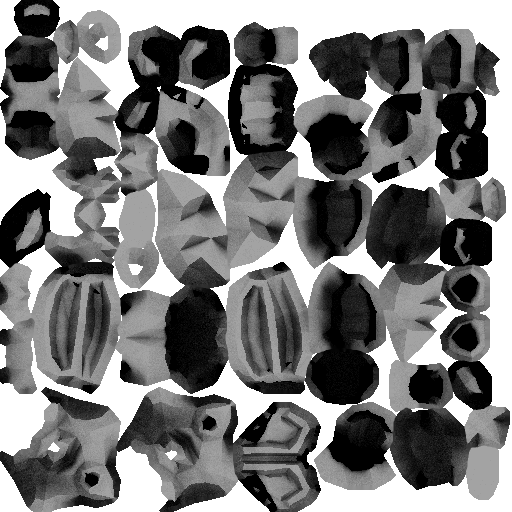
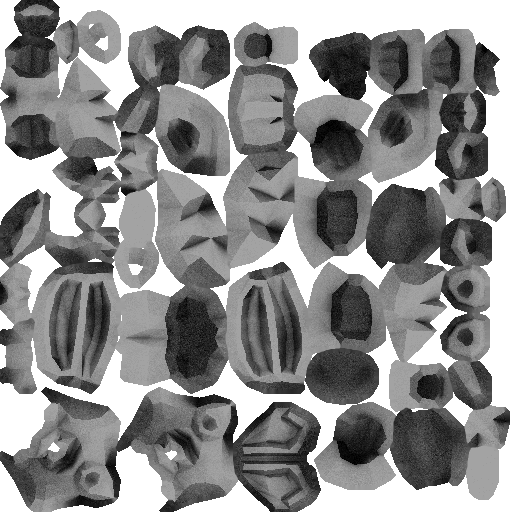
Added a light that follows the character
turned off environment lights for now

diff --git a/KazgarsRevenge/KazgarsRevenge/KazgarsRevenge/Common/TextureStrings.cs b/KazgarsRevenge/KazgarsRevenge/KazgarsRevenge/Common/TextureStrings.cs
@@ -15,23 +15,23 @@ namespace KazgarsRevenge
         public static readonly string WHITE_PIX = @"Textures\whitePixel";
         public class UI
         {
-            public static readonly string WHITE_CURSOR = @"Textures\cursor";
+            public static readonly string WHITE_CURSOR = @"Textures\UI\cursor";
             public static readonly string HOVER = @"Textures\UI\hover";
             public static readonly string INPUT_TEXTURE = @"Textures\UI\TextBox";
             public static readonly string CHARGE_BAR_FRONT = @"Textures\UI\chargeBarFront";
-            public static readonly string Place_Holder = @"Textures\\UI\\Abilities\\BN";
-            public static readonly string Talent_Arrow_U = @"Textures\\UI\\Frames\\TTArrow";
-            public static readonly string Talent_Arrow_UL = @"Textures\\UI\\Frames\\TTArrow1";
-            public static readonly string Talent_Arrow_L = @"Textures\\UI\\Frames\\TTArrow2";
-            public static readonly string Talent_Arrow_DL = @"Textures\\UI\\Frames\\TTArrow3";
-            public static readonly string Talent_Arrow_D = @"Textures\\UI\\Frames\\TTArrow4";
-            public static readonly string Talent_Arrow_DR = @"Textures\\UI\\Frames\\TTArrow5";
-            public static readonly string Talent_Arrow_R = @"Textures\\UI\\Frames\\TTArrow6";
-            public static readonly string Talent_Arrow_UR = @"Textures\\UI\\Frames\\TTArrow7";
+            public static readonly string Place_Holder = @"Textures\UI\Abilities\BN";
+            public static readonly string Talent_Arrow_U = @"Textures\UI\Frames\TTArrow";
+            public static readonly string Talent_Arrow_UL = @"Textures\UI\Frames\TTArrow1";
+            public static readonly string Talent_Arrow_L = @"Textures\UI\Frames\TTArrow2";
+            public static readonly string Talent_Arrow_DL = @"Textures\UI\Frames\TTArrow3";
+            public static readonly string Talent_Arrow_D = @"Textures\UI\\Frames\TTArrow4";
+            public static readonly string Talent_Arrow_DR = @"Textures\UI\Frames\TTArrow5";
+            public static readonly string Talent_Arrow_R = @"Textures\UI\Frames\TTArrow6";
+            public static readonly string Talent_Arrow_UR = @"Textures\UI\Frames\TTArrow7";
 
-            public static readonly string MeleeBanner = @"Textures\\UI\\Frames\\meleeBanner";
-            public static readonly string RangedBanner = @"Textures\\UI\\Frames\\rangedBanner";
-            public static readonly string MagicBanner = @"Textures\\UI\\Frames\\magicBanner";
+            public static readonly string MeleeBanner = @"Textures\UI\Frames\meleeBanner";
+            public static readonly string RangedBanner = @"Textures\UI\Frames\rangedBanner";
+            public static readonly string MagicBanner = @"Textures\UI\Frames\magicBanner";
 
 
             public class Items

diff --git a/KazgarsRevenge/KazgarsRevenge/KazgarsRevenge/Drawing/AnimatedModelComponent.cs b/KazgarsRevenge/KazgarsRevenge/KazgarsRevenge/Drawing/AnimatedModelComponent.cs
@@ -197,6 +197,7 @@ namespace KazgarsRevenge
                     {
                         foreach (CustomSkinnedEffect effect in mesh.Effects)
                         {
+                            effect.Parameters["playerLightPosition"].SetValue(camera.PlayerLightPos);
                             effect.Parameters["lineColor"].SetValue(modelParams.lineColor.ToVector3());
                             effect.Parameters["alpha"].SetValue(modelParams.alpha);
                             effect.Parameters["lineIntensity"].SetValue(modelParams.lineIntensity);
@@ -227,6 +228,7 @@ namespace KazgarsRevenge
                             {
                                 foreach (CustomSkinnedEffect effect in mesh.Effects)
                                 {
+                                    effect.Parameters["playerLightPosition"].SetValue(camera.PlayerLightPos);
                                     effect.Parameters["lineColor"].SetValue(modelParams.lineColor.ToVector3());
                                     effect.Parameters["alpha"].SetValue(modelParams.alpha);
                                     effect.Parameters["lineIntensity"].SetValue(modelParams.lineIntensity);
@@ -263,6 +265,7 @@ namespace KazgarsRevenge
                             {
                                 foreach (Effect effect in mesh.Effects)
                                 {
+                                    effect.Parameters["playerLightPosition"].SetValue(camera.PlayerLightPos);
                                     effect.Parameters["alpha"].SetValue(modelParams.alpha);
                                     effect.Parameters["lineIntensity"].SetValue(modelParams.lineIntensity);
                                     effect.CurrentTechnique = effect.Techniques[edgeDetection ? "NormalDepth" : "Toon"];

diff --git a/KazgarsRevenge/KazgarsRevenge/KazgarsRevenge/Controllers/Alive/LocalPlayerController.cs b/KazgarsRevenge/KazgarsRevenge/KazgarsRevenge/Controllers/Alive/LocalPlayerController.cs
@@ -1762,7 +1762,7 @@ namespace KazgarsRevenge
 
             inventoryRect = new Rectangle((int)(maxX - 400 * average), (int)(380 * average), (int)(402 * average), (int)(440 * average));
             equipmentRect = new Rectangle((int)(maxX - 704 * average), (int)(380 * average), (int)(304 * average), (int)(440 * average));
-            talentRect = new Rectangle((int)(maxX / 2 - 203 * average), (int)(75 * average), (int)(406 * average), (int)(738 * average));
+            talentRect = new Rectangle((int)(maxX / 2 - 203 * average), (int)(75 * average), (int)(406 * average), (int)(812 * average));
             lootRect = new Rectangle((int)(160 * average), (int)(160 * average), (int)(150 * average), (int)(300 * average));
             //guiOutsideRects.Add("chat", new Rectangle(0, (int)((maxY - 444 * average)), (int)(362 * average), (int)(444 * average)));
 

diff --git a/KazgarsRevenge/KazgarsRevenge/KazgarsRevenge/Drawing/CameraComponent.cs b/KazgarsRevenge/KazgarsRevenge/KazgarsRevenge/Drawing/CameraComponent.cs
@@ -111,6 +111,7 @@ namespace KazgarsRevenge
             {
                 characterPos = physicalData.Position;
             }
+            PlayerLightPos = new Vector3(characterPos.X, 50, characterPos.Z);
 
             Vector3 min = new Vector3(characterPos.X - playerSightRadius, 0, characterPos.Z - playerSightRadius);
             Vector3 max = new Vector3(characterPos.X + playerSightRadius, 100, characterPos.Z + playerSightRadius);
@@ -237,6 +238,8 @@ namespace KazgarsRevenge
         }
 
         #region Lights
+        public Vector3 PlayerLightPos { get; private set; }
+
         public const int MAX_ACTIVE_LIGHTS = 30;
         public int LastLightUpdate { get; private set; }
         public Vector3[] lightPositions { get; private set; }

diff --git a/KazgarsRevenge/KazgarsRevenge/KazgarsRevenge/Managers/Entities/AttackManager.cs b/KazgarsRevenge/KazgarsRevenge/KazgarsRevenge/Managers/Entities/AttackManager.cs
@@ -477,7 +477,7 @@ namespace KazgarsRevenge
 
             PhysicsComponent hookPhysics = new PhysicsComponent(mainGame, hook);
             UnanimatedModelComponent hookGraphics = new UnanimatedModelComponent(mainGame, hook,
-                GetUnanimatedModel("Models\\Projectiles\\Arrow"), new Vector3(50), Vector3.Zero, 0, 0, 0);
+                GetUnanimatedModel("Models\\Projectiles\\Arrow"), new Vector3(30), Vector3.Zero, 0, 0, 0);
             ChainBillboard chainComponent = new ChainBillboard(mainGame, hook, creator);
             ChainSpearController hookController = new ChainSpearController(mainGame, hook, creator, forceful);
 

diff --git a/KazgarsRevenge/KazgarsRevenge/KazgarsRevenge/Controllers/Alive/PlayerController.cs b/KazgarsRevenge/KazgarsRevenge/KazgarsRevenge/Controllers/Alive/PlayerController.cs
@@ -1738,15 +1738,6 @@ namespace KazgarsRevenge
         {
             List<Action> sequence = new List<Action>();
             sequence.Add(actionSequences["grapplinghook"][0]);
-
-            sequence.Add(() =>
-            {
-                attState = AttackState.Locked;
-                PlayAnimation("k_throw", MixType.PauseAtEnd);
-                millisActionLength = 300;
-                stateResetCounter = 0;
-            });
-
             sequence.Add(() =>
             {
                 attState = AttackState.None;

diff --git a/KazgarsRevenge/KazgarsRevenge/KazgarsRevenge/Controllers/Attacks/ChainSpearController.cs b/KazgarsRevenge/KazgarsRevenge/KazgarsRevenge/Controllers/Attacks/ChainSpearController.cs
@@ -67,7 +67,7 @@ namespace KazgarsRevenge
                                 lifeLength = 8000;
                                 if (target != null)
                                 {
-                                    target.DamageDodgeable(DeBuff.ForcefulThrow, 0, creator.Entity, AttackType.None);
+                                    target.DamageDodgeable(stun ? DeBuff.ForcefulThrow : DeBuff.None, 0, creator.Entity, AttackType.None);
                                 }
                             }
                         }

diff --git a/KazgarsRevenge/KazgarsRevenge/KazgarsRevenge/Drawing/UnanimatedModelComponent.cs b/KazgarsRevenge/KazgarsRevenge/KazgarsRevenge/Drawing/UnanimatedModelComponent.cs
@@ -135,6 +135,7 @@ namespace KazgarsRevenge
                 {
                     foreach (Effect effect in mesh.Effects)
                     {
+                        effect.Parameters["playerLightPosition"].SetValue(camera.PlayerLightPos);
                         effect.CurrentTechnique = effect.Techniques[edgeDetection ? "NormalDepth" : "Toon"];
                         Matrix world = transforms[mesh.ParentBone.Index]
                             * Matrix.CreateScale(drawScale)

diff --git a/KazgarsRevenge/KazgarsRevenge/KazgarsRevenge/Controllers/Alive/Enemies/EnemyController.cs b/KazgarsRevenge/KazgarsRevenge/KazgarsRevenge/Controllers/Alive/Enemies/EnemyController.cs
@@ -73,7 +73,7 @@ namespace KazgarsRevenge
             settings.hitAniName = "hit";
             settings.deathAniName = "death";
             settings.attackRange = 30;
-            settings.noticePlayerRange = 150;
+            settings.noticePlayerRange = 275;
             settings.stopChasingRange = 400;
             settings.attackLength = 1417;
             settings.attackCreateMillis = settings.attackLength / 2;
